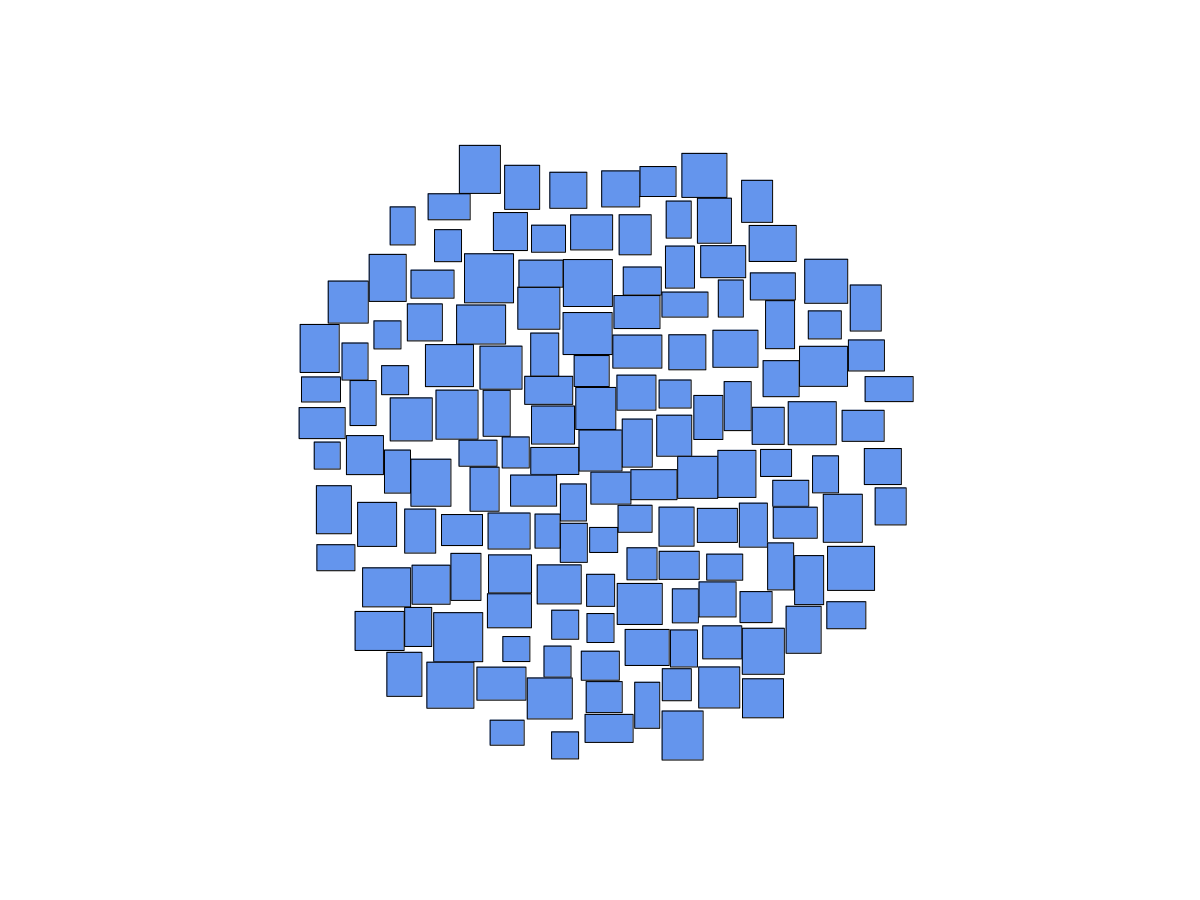
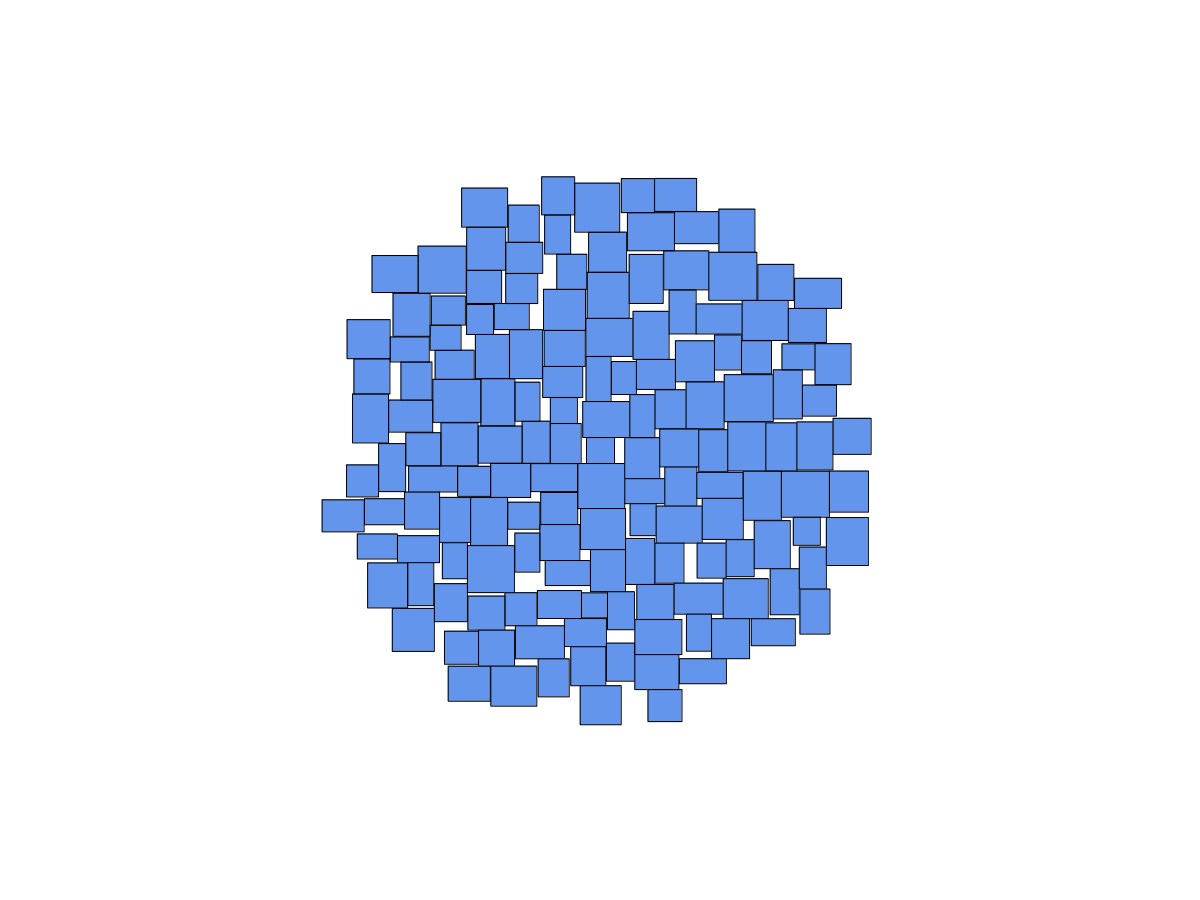
Исправления

Changed region(s): [[0.2467, 0.1556, 0.7708, 0.8711]]

diff --git a/cs/TagsCloudVisualization/CloudLayouter/CircularCloudLayouter.cs b/cs/TagsCloudVisualization/CloudLayouter/CircularCloudLayouter.cs
@@ -6,15 +6,14 @@ namespace TagsCloudVisualization.CloudLayouter;
 public class CircularCloudLayouter : ICloudLayouter
 {
     private readonly PointF center;
-    private readonly SpiralPointGenerator spiral;
+    private readonly ArchimedeanSpiralPointGenerator spiral;
     public List<RectangleF> Rectangles { get; }
 
     public CircularCloudLayouter(PointF center)
     {
         this.center = center;
-
         Rectangles = new List<RectangleF>();
-        spiral = new SpiralPointGenerator(center);
+        spiral = new ArchimedeanSpiralPointGenerator(center);
     }
 
     public RectangleF PutNextRectangle(SizeF rectangleSize)
@@ -29,47 +28,49 @@ public class CircularCloudLayouter : ICloudLayouter
             var rectangleLocation = new PointF(location.X - rectangleSize.Width / 2,
                 location.Y - rectangleSize.Height / 2);
             newRectangle = new RectangleF(rectangleLocation, rectangleSize);
-            
-            if (!newRectangle.IntersectsWithAny(Rectangles))
-            {
-                ShiftRectanglesTowardsCenter();
-            }
+
+            newRectangle = ShiftRectangleTowardsCenter(newRectangle);
         } while (newRectangle.IntersectsWithAny(Rectangles));
 
         Rectangles.Add(newRectangle);
         return newRectangle;
     }
 
-    private void ShiftRectanglesTowardsCenter()
+    private RectangleF ShiftRectangleTowardsCenter(RectangleF rectangle)
     {
-        const float shiftFactor = 0.005f;
-        var moved = true;
-        while (moved)
-        {
-            moved = false;
+        if (Rectangles.Count == 0)
+            return rectangle;
 
-            for (int i = 0; i < Rectangles.Count; i++)
+        var shiftFactor = 0.001f;
+        var canShiftX = true;
+        var canShiftY = true;
+
+        while (canShiftX || canShiftY)
+        {
+            var centerShift = new PointF(center.X - rectangle.X, center.Y - rectangle.Y);
+
+            var shiftX = canShiftX ? centerShift.X * shiftFactor : 0;
+            var shiftY = canShiftY ? centerShift.Y * shiftFactor : 0;
+
+            var shiftedRectangle = new RectangleF(
+                rectangle.X + shiftX,
+                rectangle.Y + shiftY,
+                rectangle.Width,
+                rectangle.Height);
+
+            if (shiftedRectangle.IntersectsWithAny(Rectangles))
             {
-                var rectangle = Rectangles[i];
-                var centerX = center.X;
-                var centerY = center.Y;
-                
-                var shiftX = (centerX - rectangle.X) * shiftFactor;
-                var newRectangleX = new RectangleF(rectangle.X + shiftX, rectangle.Y, rectangle.Width, rectangle.Height);
-                if (!newRectangleX.IntersectsWithAny(Rectangles))
-                {
-                    rectangle.X += shiftX;
-                    moved = true;
-                }
-                
-                var shiftY = (centerY - rectangle.Y) * shiftFactor;
-                var newRectangleY = new RectangleF(rectangle.X, rectangle.Y + shiftY, rectangle.Width, rectangle.Height);
-                if (!newRectangleY.IntersectsWithAny(Rectangles))
-                {
-                    rectangle.Y += shiftY;
-                    moved = true;
-                }
+                if (canShiftX)
+                    canShiftX = false;
+                if (canShiftY)
+                    canShiftY = false;
+            }
+            else
+            {
+                rectangle = shiftedRectangle;
             }
         }
+
+        return rectangle;
     }
 }

diff --git a/cs/TagsCloudVisualization/RandomVisualisation.cs b/cs/TagsCloudVisualization/RandomVisualisation.cs
@@ -7,7 +7,7 @@ class RandomVisualisation
 {
     static void Main(string[] args)
     {
-        
+
         var projectDirectory = Directory.GetParent(Environment.CurrentDirectory)?.Parent?.Parent?.FullName 
                                ?? throw new InvalidOperationException("Не удалось определить директорию проекта.");
         var imagesDirectory = Path.Combine(projectDirectory, "Images");
@@ -16,22 +16,28 @@ class RandomVisualisation
         {
             Directory.CreateDirectory(imagesDirectory);
         }
+        var layouter = new CircularCloudLayouter(new PointF(600, 450));
+        var random = new Random();
+        var visualizer = new CloudVisualizer();
+
+        var numberOfRectangles = 150;
+        for (int i = 0; i < numberOfRectangles; i++)
+        {
+            var width = 35;
+            var height = 20;
+            layouter.PutNextRectangle(new SizeF(width, height));
+        }
+        visualizer.SaveVisualization(layouter.Rectangles, Path.Combine(imagesDirectory, $"tag_cloud_equals_rectangles.png"));
 
         for (int j = 1; j <= 3; j++)
         {
-            var layouter = new CircularCloudLayouter(new PointF(600, 450));
-            var random = new Random();
-            var numberOfRectangles = 150;
-
+            layouter = new CircularCloudLayouter(new PointF(600, 450));
             for (int i = 0; i < numberOfRectangles; i++)
             {
                 var width = random.Next(25, 50);
                 var height = random.Next(25, 50);
                 layouter.PutNextRectangle(new SizeF(width, height));
             }
-
-            var visualizer = new CloudVisualizer();
-                
             visualizer.SaveVisualization(layouter.Rectangles, Path.Combine(imagesDirectory, $"tag_cloud_random_{j}.png"));
         }
         Console.WriteLine("Визуализация была сохранена.");

diff --git a/cs/TagsCloudTests/CloudVisualizer_Should.cs b/cs/TagsCloudTests/CloudVisualizer_Should.cs
@@ -13,7 +13,7 @@ public class CloudVisualizer_Should : CircularCloudLayouterTestsBase
         Layouter.PutNextRectangle(new SizeF(10, 10));
         var filePath = Path.Combine(ImagesDirectory, "test_visualization.png");
         Visualizer.SaveVisualization(Layouter.Rectangles, filePath);
-        
+
         using (var image = Image.Load<Rgba32>(filePath))
         {
             image.Width.Should().Be(1200);
@@ -25,14 +25,14 @@ public class CloudVisualizer_Should : CircularCloudLayouterTestsBase
     [Test]
     public void SaveVisualization_ShouldCreateImageWithBiggerSize_WhenManyRectangles()
     {
-        for(int i = 0; i < 10; i++)
+        for(int i = 0; i < 13; i++)
             Layouter.PutNextRectangle(new SizeF(300, 300));
-        
+
         var filePath = Path.Combine(ImagesDirectory, "test_visualization.png");
         Visualizer.SaveVisualization(Layouter.Rectangles, filePath);
-        
+
         using (var image = Image.Load<Rgba32>(filePath))
-        {
+        { 
             image.Width.Should().BeGreaterThan(1200);
             image.Height.Should().BeGreaterThan(900);
         }

diff --git a/cs/TagsCloudTests/CircularCloudLayouter_Should.cs b/cs/TagsCloudTests/CircularCloudLayouter_Should.cs
@@ -30,7 +30,7 @@ public class CircularCloudLayouter_Should : CircularCloudLayouterTestsBase
     {
         var rectangleSize = new SizeF(20, 30);
         var rectangle = Layouter.PutNextRectangle(rectangleSize);
-            
+
         rectangle.Size.Should().BeEquivalentTo(rectangleSize);
     }
 
@@ -40,7 +40,7 @@ public class CircularCloudLayouter_Should : CircularCloudLayouterTestsBase
         var rectangleSize = new SizeF(10, 10);
         var expectedLocation = new PointF(Center.X - rectangleSize.Width / 2, Center.Y - rectangleSize.Height / 2);
         var rectangle = Layouter.PutNextRectangle(rectangleSize);
-            
+
         rectangle.Location.Should().BeEquivalentTo(expectedLocation);
     }
 
@@ -95,7 +95,7 @@ public class CircularCloudLayouter_Should : CircularCloudLayouterTestsBase
             distanceToCenter.Should().BeLessThan(MaxDistanceToCenter);
         }
     }
-        
+
     private void VerifyRectanglesDontIntersect(List<RectangleF> rectangles)
     {
         for (int i = 0; i < rectangles.Count; i++)

diff --git a/cs/TagsCloudTests/RectangleExtensions_Should.cs b/cs/TagsCloudTests/RectangleExtensions_Should.cs
@@ -17,9 +17,9 @@ public class RectangleExtensions_Should : CircularCloudLayouterTestsBase
             new RectangleF(30, 30, 50, 50),
             new RectangleF(200, 200, 50, 50)
         };
-        
+
         var result = rectangleToCheck.IntersectsWithAny(existingRectangles);
-        
+
         result.Should().BeTrue();
     }
 
@@ -32,9 +32,9 @@ public class RectangleExtensions_Should : CircularCloudLayouterTestsBase
             new RectangleF(200, 200, 50, 50),
             new RectangleF(300, 300, 50, 50)
         };
-        
+
         var result = rectangleToCheck.IntersectsWithAny(existingRectangles);
-        
+
         result.Should().BeFalse();
     }
 
@@ -43,7 +43,7 @@ public class RectangleExtensions_Should : CircularCloudLayouterTestsBase
     {
         var rectangleToCheck = new RectangleF(50, 50, 100, 100);
         var existingRectangles = new List<RectangleF>();
-        
+
         var result = rectangleToCheck.IntersectsWithAny(existingRectangles);
 
         result.Should().BeFalse();

diff --git a/cs/TagsCloudTests/CircularCloudLayouterTestsBase.cs b/cs/TagsCloudTests/CircularCloudLayouterTestsBase.cs
@@ -9,7 +9,7 @@ public abstract class CircularCloudLayouterTestsBase
 {
     protected CircularCloudLayouter Layouter;
     protected CloudVisualizer Visualizer;
-    protected SpiralPointGenerator Generator;
+    protected ArchimedeanSpiralPointGenerator Generator;
     protected SizeF[] RectangleSizes;
     protected PointF Center;
     protected int MaxDistanceToCenter;
@@ -29,7 +29,7 @@ public abstract class CircularCloudLayouterTestsBase
             new SizeF(75, 115),
             new SizeF(100, 100)
         ];
-        Generator = new SpiralPointGenerator(Center);
+        Generator = new ArchimedeanSpiralPointGenerator(Center);
         MaxDistanceToCenter = 120;
         var projectDirectory = Directory.GetParent(Environment.CurrentDirectory)?.Parent?.Parent?.FullName
                                ?? throw new InvalidOperationException("Не удалось определить директорию проекта.");

diff --git a/cs/TagsCloudVisualization/CloudLayouter/ArchimedeanSpiralPointGenerator.cs b/cs/TagsCloudVisualization/CloudLayouter/ArchimedeanSpiralPointGenerator.cs
@@ -1,0 +1,28 @@
+using SixLabors.ImageSharp;
+
+namespace TagsCloudVisualization.CloudLayouter;
+
+public class ArchimedeanSpiralPointGenerator
+{
+    private readonly PointF center;
+    private readonly double spiralStep;
+    private readonly double distanceBetweenTurns;
+    private double angle;
+
+    public ArchimedeanSpiralPointGenerator(PointF center, double spiralStep = 0.01, double distanceBetweenTurns = 0.01)
+    {
+        this.center = center;
+        this.spiralStep = spiralStep;
+        this.distanceBetweenTurns = distanceBetweenTurns;
+        angle = 0;
+    }
+
+    public PointF GetNextPoint()
+    {
+        var radius = distanceBetweenTurns * angle;
+        var x = (float)(center.X + radius * Math.Cos(angle));
+        var y = (float)(center.Y + radius * Math.Sin(angle));
+        angle += spiralStep;
+        return new PointF(x, y);
+    }
+}

diff --git a/cs/TagsCloudTests/ArchimedeanSpiralPointGenerator_Should.cs b/cs/TagsCloudTests/ArchimedeanSpiralPointGenerator_Should.cs
@@ -4,7 +4,7 @@ using SixLabors.ImageSharp;
 
 namespace TagsCloudTests;
 
-public class SpiralPointGenerator_Should : CircularCloudLayouterTestsBase
+public class ArchimedeanSpiralPointGenerator_Should : CircularCloudLayouterTestsBase
 {
     [Test]
     public void GetNextPoint_ShouldReturnFirstPointAtCenter()

diff --git a/cs/TagsCloudVisualization/CloudLayouter/CloudVisualizer.cs b/cs/TagsCloudVisualization/CloudLayouter/CloudVisualizer.cs
@@ -15,7 +15,7 @@ public class CloudVisualizer
 
         var maxWidth = rectangles.Max(r => r.Right);
         var maxHeight = rectangles.Max(r => r.Bottom);
-        
+
         var width = (int)Math.Max(maxWidth, 1200);
         var height = (int)Math.Max(maxHeight, 900);
 
